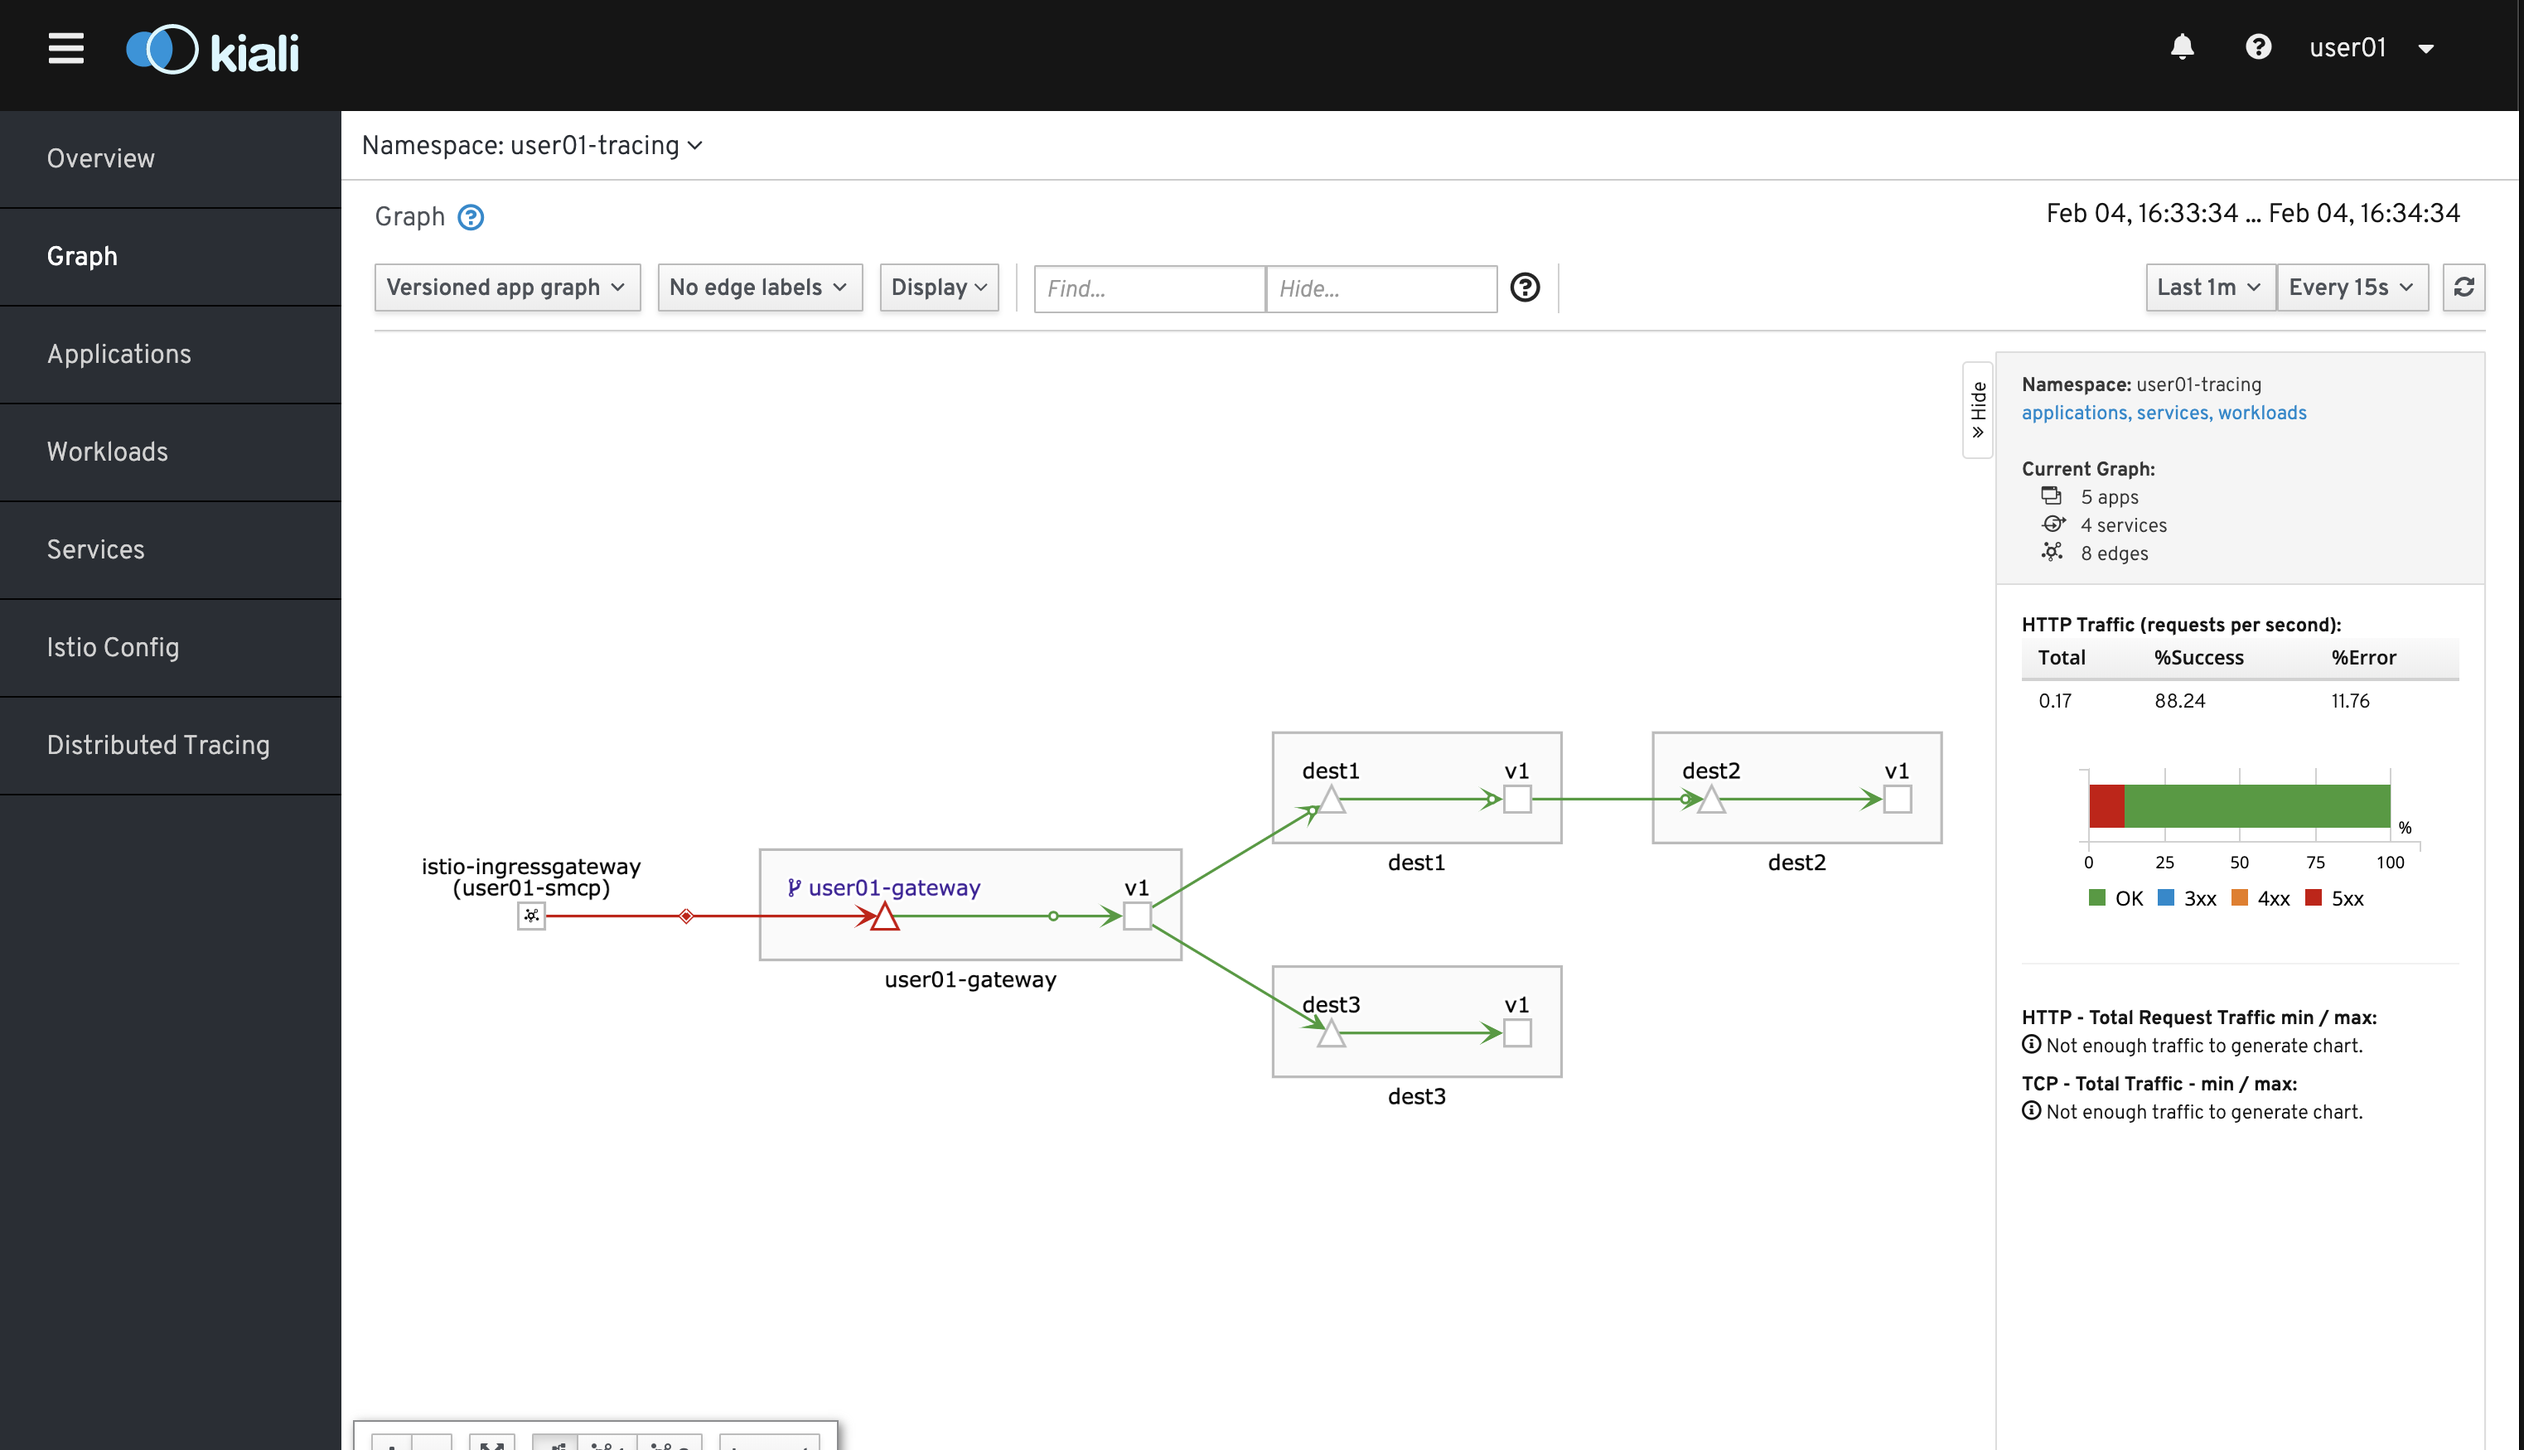
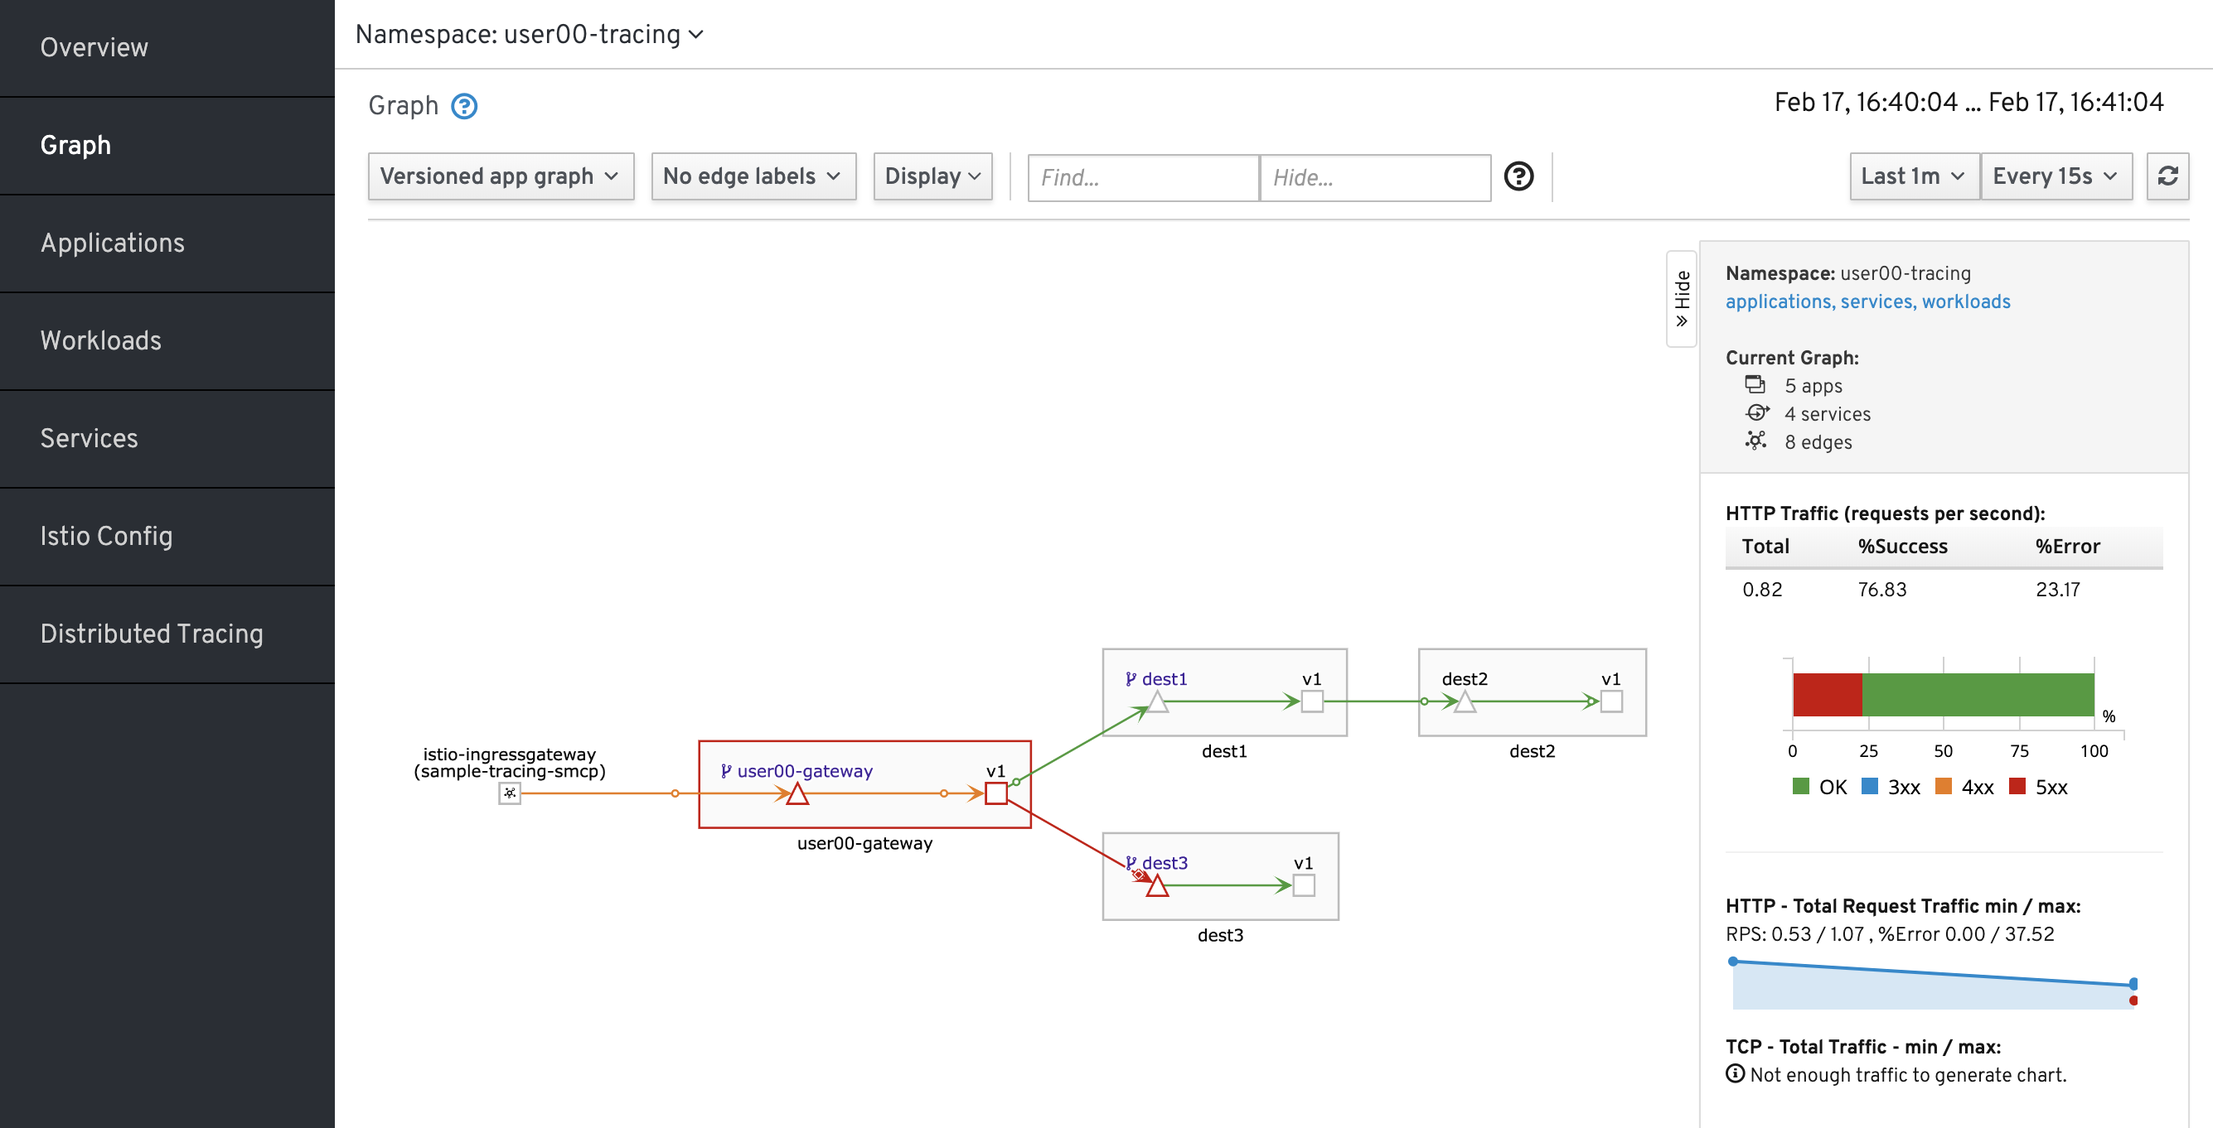
Add Canary Deployment

diff --git a/Lab8/README.md b/Lab8/README.md
@@ -2,6 +2,7 @@
 
 - Service Mesh上にアプリケーションを構築
 - Service Meshを使ったfault injection
+- Service Meshを使ったCanary Deployment
 
 # Service Mesh上にアプリケーションを構築
 
@@ -54,45 +55,27 @@ oc login https://api.xxx:6443
 
 # Service Meshを使ったfault injection
 
-1. 下記yamlファイルを作り(ユーザー名の箇所はご自身のものに変更してください)、oc apply -f yaml で変更を適用してください。
+1. 下記でfault injectionの設定をapplyします。
 
    ```
-   oc apply -f - <<EOF
-   apiVersion: networking.istio.io/v1alpha3
-   kind: VirtualService
-   metadata:
-     name: ユーザー名-gateway
-     namespace: ユーザー名-tracing
-   spec:
-     hosts:
-     - "*"
-     gateways:
-     - ユーザー名-gateway
-     http:
-     - match:
-       - uri:
-           exact: /
-       - uri:
-           exact: /propagate1
-       - uri:
-           exact: /propagate2
-       - uri:
-           exact: /propagate3
-       route:
-       - destination:
-           host: ユーザー名-gateway
-           port:
-             number: 8080
-       fault:
-         abort:
-           httpStatus: 503
-           percent: 50
-   EOF
+   oc apply -f dest3/fault-injection.yaml
    ```
-
+   
 2. ダッシュボードを確認し、リクエストが失敗する時としない時があることを確認してください。
 
    ![](images/ossm_2.png)
+
+# Service Meshを使ったCanary Deployment
+
+1. 下記でCanary Deploymentの設定をapplyします。
+
+   ```
+   oc apply -f dest1/canary.yaml
+   ```
+
+2. ダッシュボードを確認し、dest1のv1とv2にトラフィックが送られるようになったことを確認してください。また、レスポンスに「Hello from dest1-v1!!」「Hello from dest1-v2!!」が交互に表示されることを確認してください。
+
+   ![](images/ossm_3.png)
 
 # 応用問題
 
